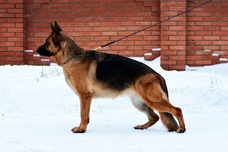
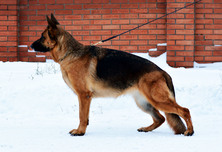
Change a photo of Inessa

diff --git a/females/inessa/photos.htm b/females/inessa/photos.htm
@@ -6,7 +6,7 @@ interactive_images: true
 <article>
 	<h1>Фото <a href=".">Фонте Фиделити Инессы</a></h1>
 
-	{% include photo.html path="2020/01152" title="Фонте Фиделити Инесса, 2,5 года" w="228" h="152" %}
+	{% include photo.html path="2020/01152" title="Фонте Фиделити Инесса, 2,5 года" w="222" h="152" %}
 	{% include photo.html path="2020/01153" title="Фонте Фиделити Инесса, 2,5 года" w="235" h="152" %}
 	{% include photo.html path="2020/01154" title="Фонте Фиделити Инесса, 2,5 года" w="223" h="152" %}
 	{% include photo.html path="2020/01155" title="Фонте Фиделити Инесса, 2,5 года" w="125" h="152" %}
